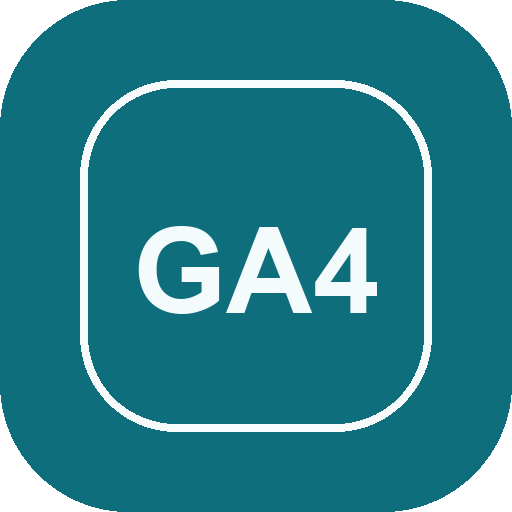
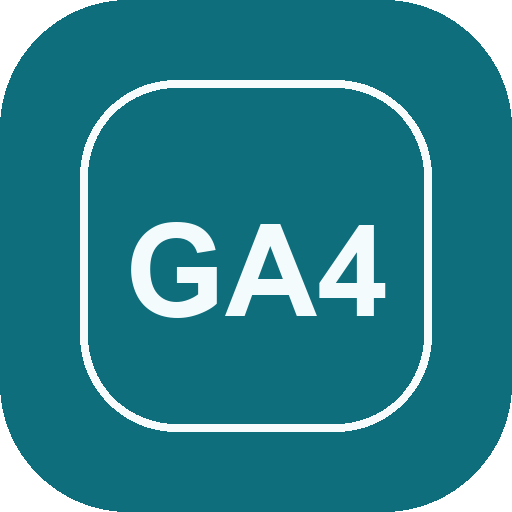
Use PNG brand mark so GitHub README shows GA4 correctly.
GitHub’s SVG renderer often mishandles text glyphs; bake GA4 into a PNG for README and header.

Changed region(s): [[0.4375, 0.4375, 0.75, 0.625], [0.25, 0.4062, 0.4375, 0.625]]

diff --git a/course/index.html b/course/index.html
@@ -18,7 +18,7 @@
   <link rel="preconnect" href="https://fonts.googleapis.com">
   <link rel="preconnect" href="https://fonts.gstatic.com" crossorigin>
   <link href="https://fonts.googleapis.com/css2?family=Fraunces:opsz,wght@9..144,500;9..144,650&family=IBM+Plex+Mono:wght@400;600&family=Source+Sans+3:wght@400;600;700&display=swap" rel="stylesheet">
-  <link rel="stylesheet" href="../css/site.css?v=20260802q">
+  <link rel="stylesheet" href="../css/site.css?v=20260802r">
 </head>
 <body class="course-page">
   <header class="site-header site-header-app" id="siteHeader"></header>
@@ -113,12 +113,12 @@
   </div>
 
   <footer class="site-footer course-footer-hidden" id="siteFooter" hidden></footer>
-  <script src="../js/app.js?v=20260802q"></script>
-  <script src="../js/tts.js?v=20260802q"></script>
-  <script src="../js/lightbox.js?v=20260802q"></script>
-  <script src="../js/diagrams-animate.js?v=20260802q"></script>
-  <script src="../js/render.js?v=20260802q"></script>
-  <script src="../js/course.js?v=20260802q"></script>
+  <script src="../js/app.js?v=20260802r"></script>
+  <script src="../js/tts.js?v=20260802r"></script>
+  <script src="../js/lightbox.js?v=20260802r"></script>
+  <script src="../js/diagrams-animate.js?v=20260802r"></script>
+  <script src="../js/render.js?v=20260802r"></script>
+  <script src="../js/course.js?v=20260802r"></script>
   <script>
     GA4.renderHeader('course');
     /* App shell: no landing footer */

diff --git a/resources/index.html b/resources/index.html
@@ -18,7 +18,7 @@
   <link rel="preconnect" href="https://fonts.googleapis.com">
   <link rel="preconnect" href="https://fonts.gstatic.com" crossorigin>
   <link href="https://fonts.googleapis.com/css2?family=Fraunces:opsz,wght@9..144,500;9..144,650&family=IBM+Plex+Mono:wght@400;600&family=Source+Sans+3:wght@400;600;700&display=swap" rel="stylesheet">
-  <link rel="stylesheet" href="../css/site.css?v=20260802q">
+  <link rel="stylesheet" href="../css/site.css?v=20260802r">
 </head>
 <body>
   <header class="site-header" id="siteHeader"></header>
@@ -48,11 +48,11 @@
     </div>
   </main>
   <footer class="site-footer" id="siteFooter"></footer>
-  <script src="../js/app.js?v=20260802q"></script>
-  <script src="../js/tts.js?v=20260802q"></script>
-  <script src="../js/lightbox.js?v=20260802q"></script>
-  <script src="../js/diagrams-animate.js?v=20260802q"></script>
-  <script src="../js/render.js?v=20260802q"></script>
+  <script src="../js/app.js?v=20260802r"></script>
+  <script src="../js/tts.js?v=20260802r"></script>
+  <script src="../js/lightbox.js?v=20260802r"></script>
+  <script src="../js/diagrams-animate.js?v=20260802r"></script>
+  <script src="../js/render.js?v=20260802r"></script>
   <script>
     GA4.renderHeader('resources');
     GA4.renderFooter();

diff --git a/settings/index.html b/settings/index.html
@@ -18,7 +18,7 @@
   <link rel="preconnect" href="https://fonts.googleapis.com">
   <link rel="preconnect" href="https://fonts.gstatic.com" crossorigin>
   <link href="https://fonts.googleapis.com/css2?family=Fraunces:opsz,wght@9..144,500;9..144,650&family=IBM+Plex+Mono:wght@400;600&family=Source+Sans+3:wght@400;600;700&display=swap" rel="stylesheet">
-  <link rel="stylesheet" href="../css/site.css?v=20260802q">
+  <link rel="stylesheet" href="../css/site.css?v=20260802r">
 </head>
 <body>
   <header class="site-header" id="siteHeader"></header>
@@ -88,9 +88,9 @@
     </div>
   </main>
   <footer class="site-footer" id="siteFooter"></footer>
-  <script src="../js/app.js?v=20260802q"></script>
-  <script src="../js/tts.js?v=20260802q"></script>
-  <script src="../js/coach.js?v=20260802q"></script>
+  <script src="../js/app.js?v=20260802r"></script>
+  <script src="../js/tts.js?v=20260802r"></script>
+  <script src="../js/coach.js?v=20260802r"></script>
   <script>
     GA4.renderHeader('settings');
     GA4.renderFooter();

diff --git a/coach/index.html b/coach/index.html
@@ -18,7 +18,7 @@
   <link rel="preconnect" href="https://fonts.googleapis.com">
   <link rel="preconnect" href="https://fonts.gstatic.com" crossorigin>
   <link href="https://fonts.googleapis.com/css2?family=Fraunces:opsz,wght@9..144,500;9..144,650&family=IBM+Plex+Mono:wght@400;600&family=Source+Sans+3:wght@400;600;700&display=swap" rel="stylesheet">
-  <link rel="stylesheet" href="../css/site.css?v=20260802q">
+  <link rel="stylesheet" href="../css/site.css?v=20260802r">
 </head>
 <body>
   <header class="site-header" id="siteHeader"></header>
@@ -78,9 +78,9 @@
     </div>
   </main>
   <footer class="site-footer" id="siteFooter"></footer>
-  <script src="../js/app.js?v=20260802q"></script>
-  <script src="../js/tts.js?v=20260802q"></script>
-  <script src="../js/coach.js?v=20260802q"></script>
+  <script src="../js/app.js?v=20260802r"></script>
+  <script src="../js/tts.js?v=20260802r"></script>
+  <script src="../js/coach.js?v=20260802r"></script>
   <script>
     GA4.renderHeader('coach');
     GA4.renderFooter();

diff --git a/academy/index.html b/academy/index.html
@@ -18,7 +18,7 @@
   <link rel="preconnect" href="https://fonts.googleapis.com">
   <link rel="preconnect" href="https://fonts.gstatic.com" crossorigin>
   <link href="https://fonts.googleapis.com/css2?family=Fraunces:opsz,wght@9..144,500;9..144,650&family=IBM+Plex+Mono:wght@400;600&family=Source+Sans+3:wght@400;600;700&display=swap" rel="stylesheet">
-  <link rel="stylesheet" href="../css/site.css?v=20260802q">
+  <link rel="stylesheet" href="../css/site.css?v=20260802r">
 </head>
 <body>
   <header class="site-header" id="siteHeader"></header>
@@ -41,8 +41,8 @@
     </div>
   </main>
   <footer class="site-footer" id="siteFooter"></footer>
-  <script src="../js/app.js?v=20260802q"></script>
-  <script src="../js/render.js?v=20260802q"></script>
+  <script src="../js/app.js?v=20260802r"></script>
+  <script src="../js/render.js?v=20260802r"></script>
   <script>
     GA4.renderHeader('academy');
     GA4.renderFooter();

diff --git a/skill/index.html b/skill/index.html
@@ -18,7 +18,7 @@
   <link rel="preconnect" href="https://fonts.googleapis.com">
   <link rel="preconnect" href="https://fonts.gstatic.com" crossorigin>
   <link href="https://fonts.googleapis.com/css2?family=Fraunces:opsz,wght@9..144,500;9..144,650&family=IBM+Plex+Mono:wght@400;600&family=Source+Sans+3:wght@400;600;700&display=swap" rel="stylesheet">
-  <link rel="stylesheet" href="../css/site.css?v=20260802q">
+  <link rel="stylesheet" href="../css/site.css?v=20260802r">
 </head>
 <body class="skill-page">
   <header class="site-header" id="siteHeader"></header>
@@ -78,7 +78,7 @@
     </div>
   </main>
   <footer class="site-footer" id="siteFooter"></footer>
-  <script src="../js/app.js?v=20260802q"></script>
+  <script src="../js/app.js?v=20260802r"></script>
   <script>
     GA4.renderHeader('skill');
     GA4.renderFooter();

diff --git a/index.html b/index.html
@@ -21,7 +21,7 @@
   <link rel="preconnect" href="https://fonts.googleapis.com">
   <link rel="preconnect" href="https://fonts.gstatic.com" crossorigin>
   <link href="https://fonts.googleapis.com/css2?family=Fraunces:opsz,wght@9..144,500;9..144,650&family=IBM+Plex+Mono:wght@400;600&family=Source+Sans+3:wght@400;600;700&display=swap" rel="stylesheet">
-  <link rel="stylesheet" href="css/site.css?v=20260802q">
+  <link rel="stylesheet" href="css/site.css?v=20260802r">
   <script type="application/ld+json">
   {
     "@context": "https://schema.org",
@@ -266,7 +266,7 @@
     </section>
   </main>
   <footer class="site-footer" id="siteFooter"></footer>
-  <script src="js/app.js?v=20260802q"></script>
+  <script src="js/app.js?v=20260802r"></script>
   <script>
     GA4.renderHeader('home');
     GA4.renderFooter();

diff --git a/js/app.js b/js/app.js
@@ -220,7 +220,7 @@
     if (!el) return;
     el.innerHTML = `
       <a class="brand" href="${asset('index.html')}">
-        <img class="brand-mark-img" src="${asset('assets/brand/icon.svg?v=20260802q')}" width="36" height="36" alt="GA4" />
+        <img class="brand-mark-img" src="${asset('assets/brand/readme-icon.png?v=20260802r')}" width="36" height="36" alt="GA4" />
         <div class="brand-text">
           <strong>GA4 Desk</strong>
           <span>Guidebook · Course · Skill</span>

diff --git a/README.md b/README.md
@@ -1,7 +1,7 @@
 # GA4 Desk
 
 <p align="center">
-  <img src="assets/brand/icon.svg" width="72" height="72" alt="GA4 Desk">
+  <img src="assets/brand/readme-icon.png" width="88" height="88" alt="GA4 Desk">
 </p>
 
 <p align="center">
